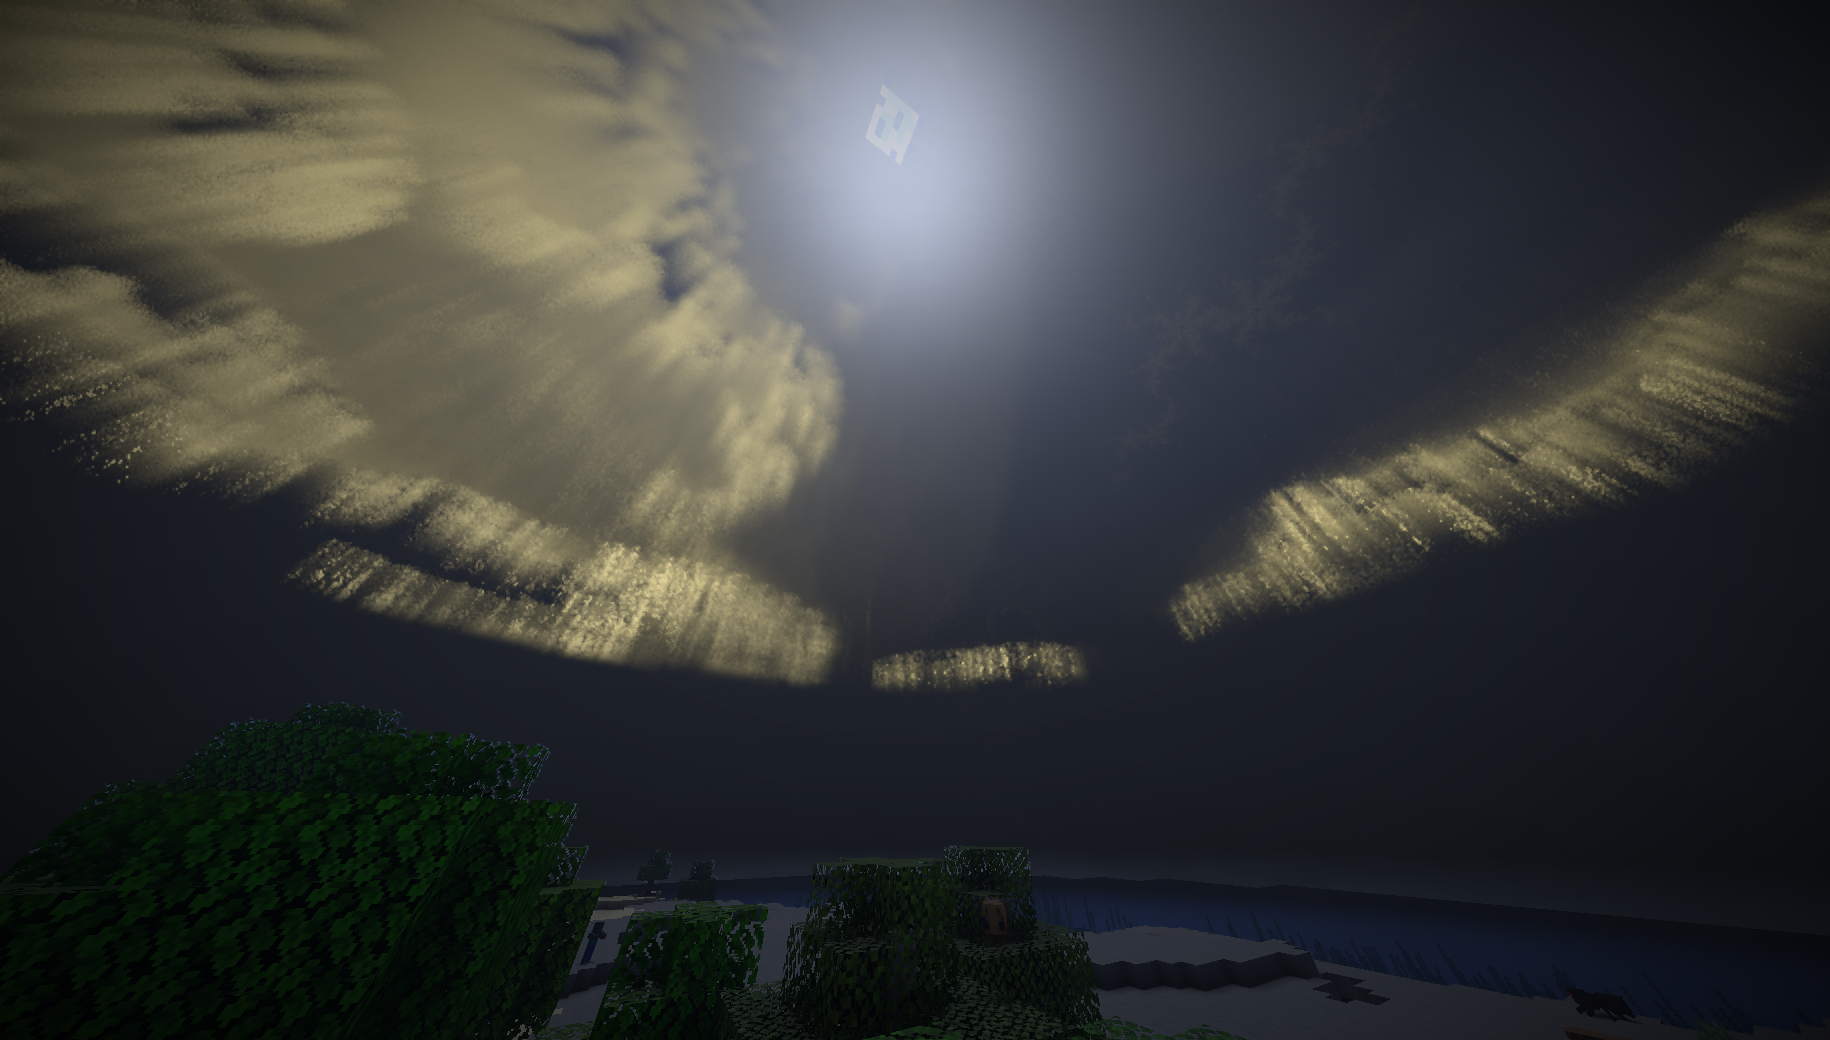
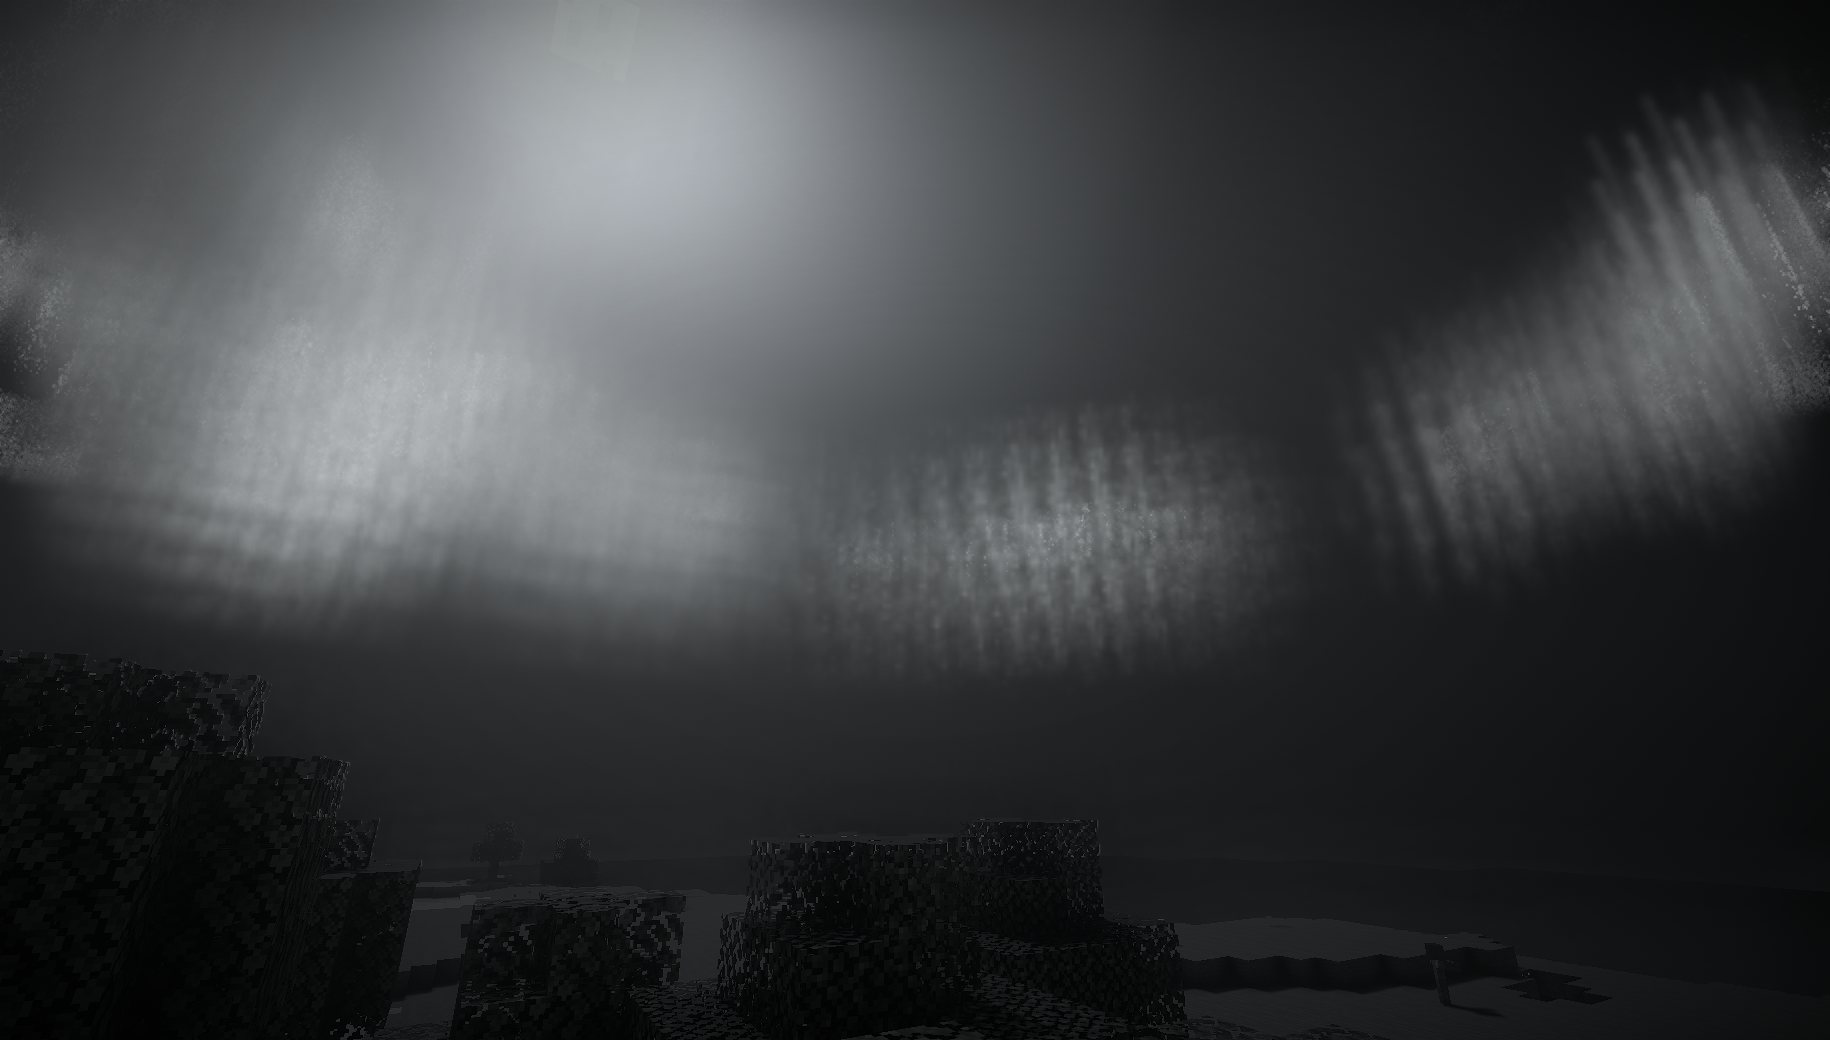
06: cortinas y ventana más brillantes frente a la niebla; comparación con la referencia documentada
Con el aislamiento de color y la exposición calibrada las cortinas apenas
destacaban. Mapa a ½ con 48 iteraciones probado y descartado (+0,6 ms sin
ganancia). Sigue faltando el detalle nítido de la referencia: diagnóstico y duda
en docs/efectos/aurora.md.

diff --git a/docs/efectos/aurora.md b/docs/efectos/aurora.md
@@ -98,3 +98,21 @@ Noche mirando la figura (1830×1040, RTX 3050 Ti portátil): 6,09 ms de GPU con 
   `dbg_conos.png`.
 - **Ventana** (`aurora-sin-ventana.png` frente a `aurora-semilla3.png`): ver §Ventana.
 - **No visto:** el suelo medido del mod nativo.
+
+## Comparación con la referencia, ya con el aislamiento de color (2026-11-02)
+
+`hoja-aurora-frente-referencia.png`: a la izquierda la nuestra (semilla 3, mirando al sur un poco hacia arriba),
+a la derecha `referencias/ruidov_noche.png`.
+
+- **Ajustes hechos:** la luz de las cortinas ×3 (`ADP_AURORA_ESCALA` 0,5 → 1,5) y la ventana ×2,5
+  (`VOL_AURORA_VENTANA_ESCALA` 0,6 → 1,5): con el 13 en gris y la exposición calibrada (11) las cortinas quedaban
+  apenas por encima de la niebla iluminada por la luna; ahora destacan como en la referencia.
+- **Probado y descartado:** el mapa a ½ resolución con 48 iteraciones: +0,6 ms y no se gana detalle a la vista.
+- **Lo que sigue sin parecerse:** en la referencia, dentro de cada figura se ven **puntos y filamentos nítidos y muy
+  brillantes** sobre una cortina oscura con vetas, y el fondo entre figuras es casi negro. En la nuestra la luz sale
+  como **manchas suaves** con vetas finas, sin puntos nítidos. Diagnóstico: mirando desde el suelo a ~30° el rayo
+  cruza la franja del velo (96 bloques de alto) a lo largo de ~190 bloques horizontales, es decir, ~0,4 del radio del
+  disco: cada píxel integra un trozo grande del mapa y el detalle del fractal se emborrona. Sospecho que en Vulpe los
+  puntos nítidos son la **ventana** (el fractal visto a través de los conos) o el borde superior del velo con un
+  perfil más estrecho. **Duda para A:** ¿de dónde salen los puntos nítidos de la referencia, y cuánto del velo se
+  integra por píxel en Vulpe?
